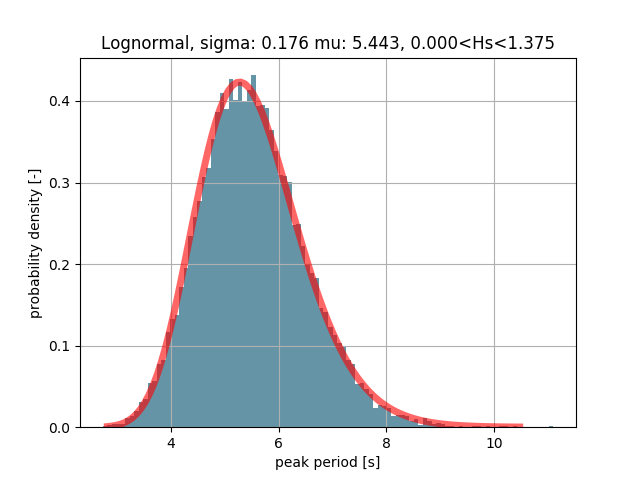
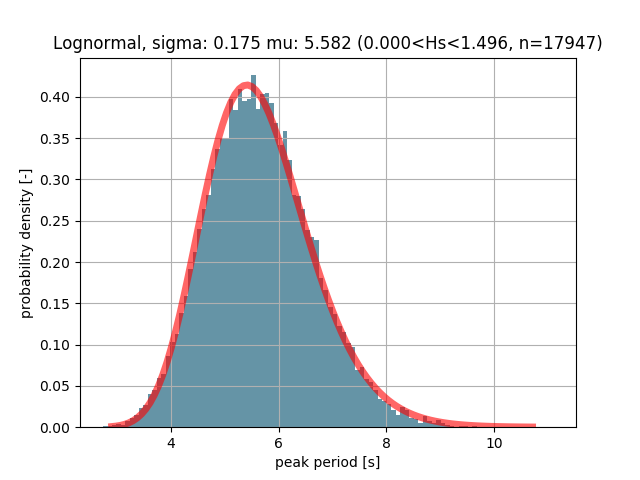
improve fit graphics: add n= and adjust number of histogram bins

diff --git a/enviro/plot.py b/enviro/plot.py
@@ -55,13 +55,21 @@ def plot_pdf_with_raw_data(main_index, low_index, shape, loc, scale, form, dist_
         text = form + ', ' + 'sigma: ' + str(format(shape, '.3f')) + ' mu: ' + str(format(scale, '.3f'))
     else:
         raise KeyError('No function match - {}'.format(form))
+
+    text = text + ' ('
     if symbol_parent_var:
-        text = text + ', ' + str(format(interval[0], '.3f')) + '<' + symbol_parent_var + '<' + str(
-            format(interval[1], '.3f'))
+        text = text + str(format(interval[0], '.3f')) + '<' + symbol_parent_var + '<' + str(
+            format(interval[1], '.3f')) + ', '
+    text = text + 'n=' + str(len(dist_points)) + ')'
 
     ax.plot(x, y, 'r-', lw=5, alpha=0.6, label=form)
+    n_intervals_histogram = int(round(len(dist_points)/50.0))
+    if n_intervals_histogram > 100:
+        n_intervals_histogram = 100
+    if n_intervals_histogram < 10:
+        n_intervals_histogram = 10
 
-    ax.hist(dist_points, 100, normed=True, histtype='stepfilled', alpha=0.9, color='#54889c')
+    ax.hist(dist_points, n_intervals_histogram, normed=True, histtype='stepfilled', alpha=0.9, color='#54889c')
 
     ax.grid(True)
 

diff --git a/enviro/models.py b/enviro/models.py
@@ -65,4 +65,4 @@ class ParameterModel(models.Model):
     distribution = models.ForeignKey(DistributionModel, on_delete=models.CASCADE)
 
     def __str__(self):
-        return "parameter"
+        return "parameter object with: function=%r, x0=%r, x1=%r, x2=%r, dependency=%r, name=%r" % (self.function, self.x0, self.x1, self.x2, self.dependency, self.name)
